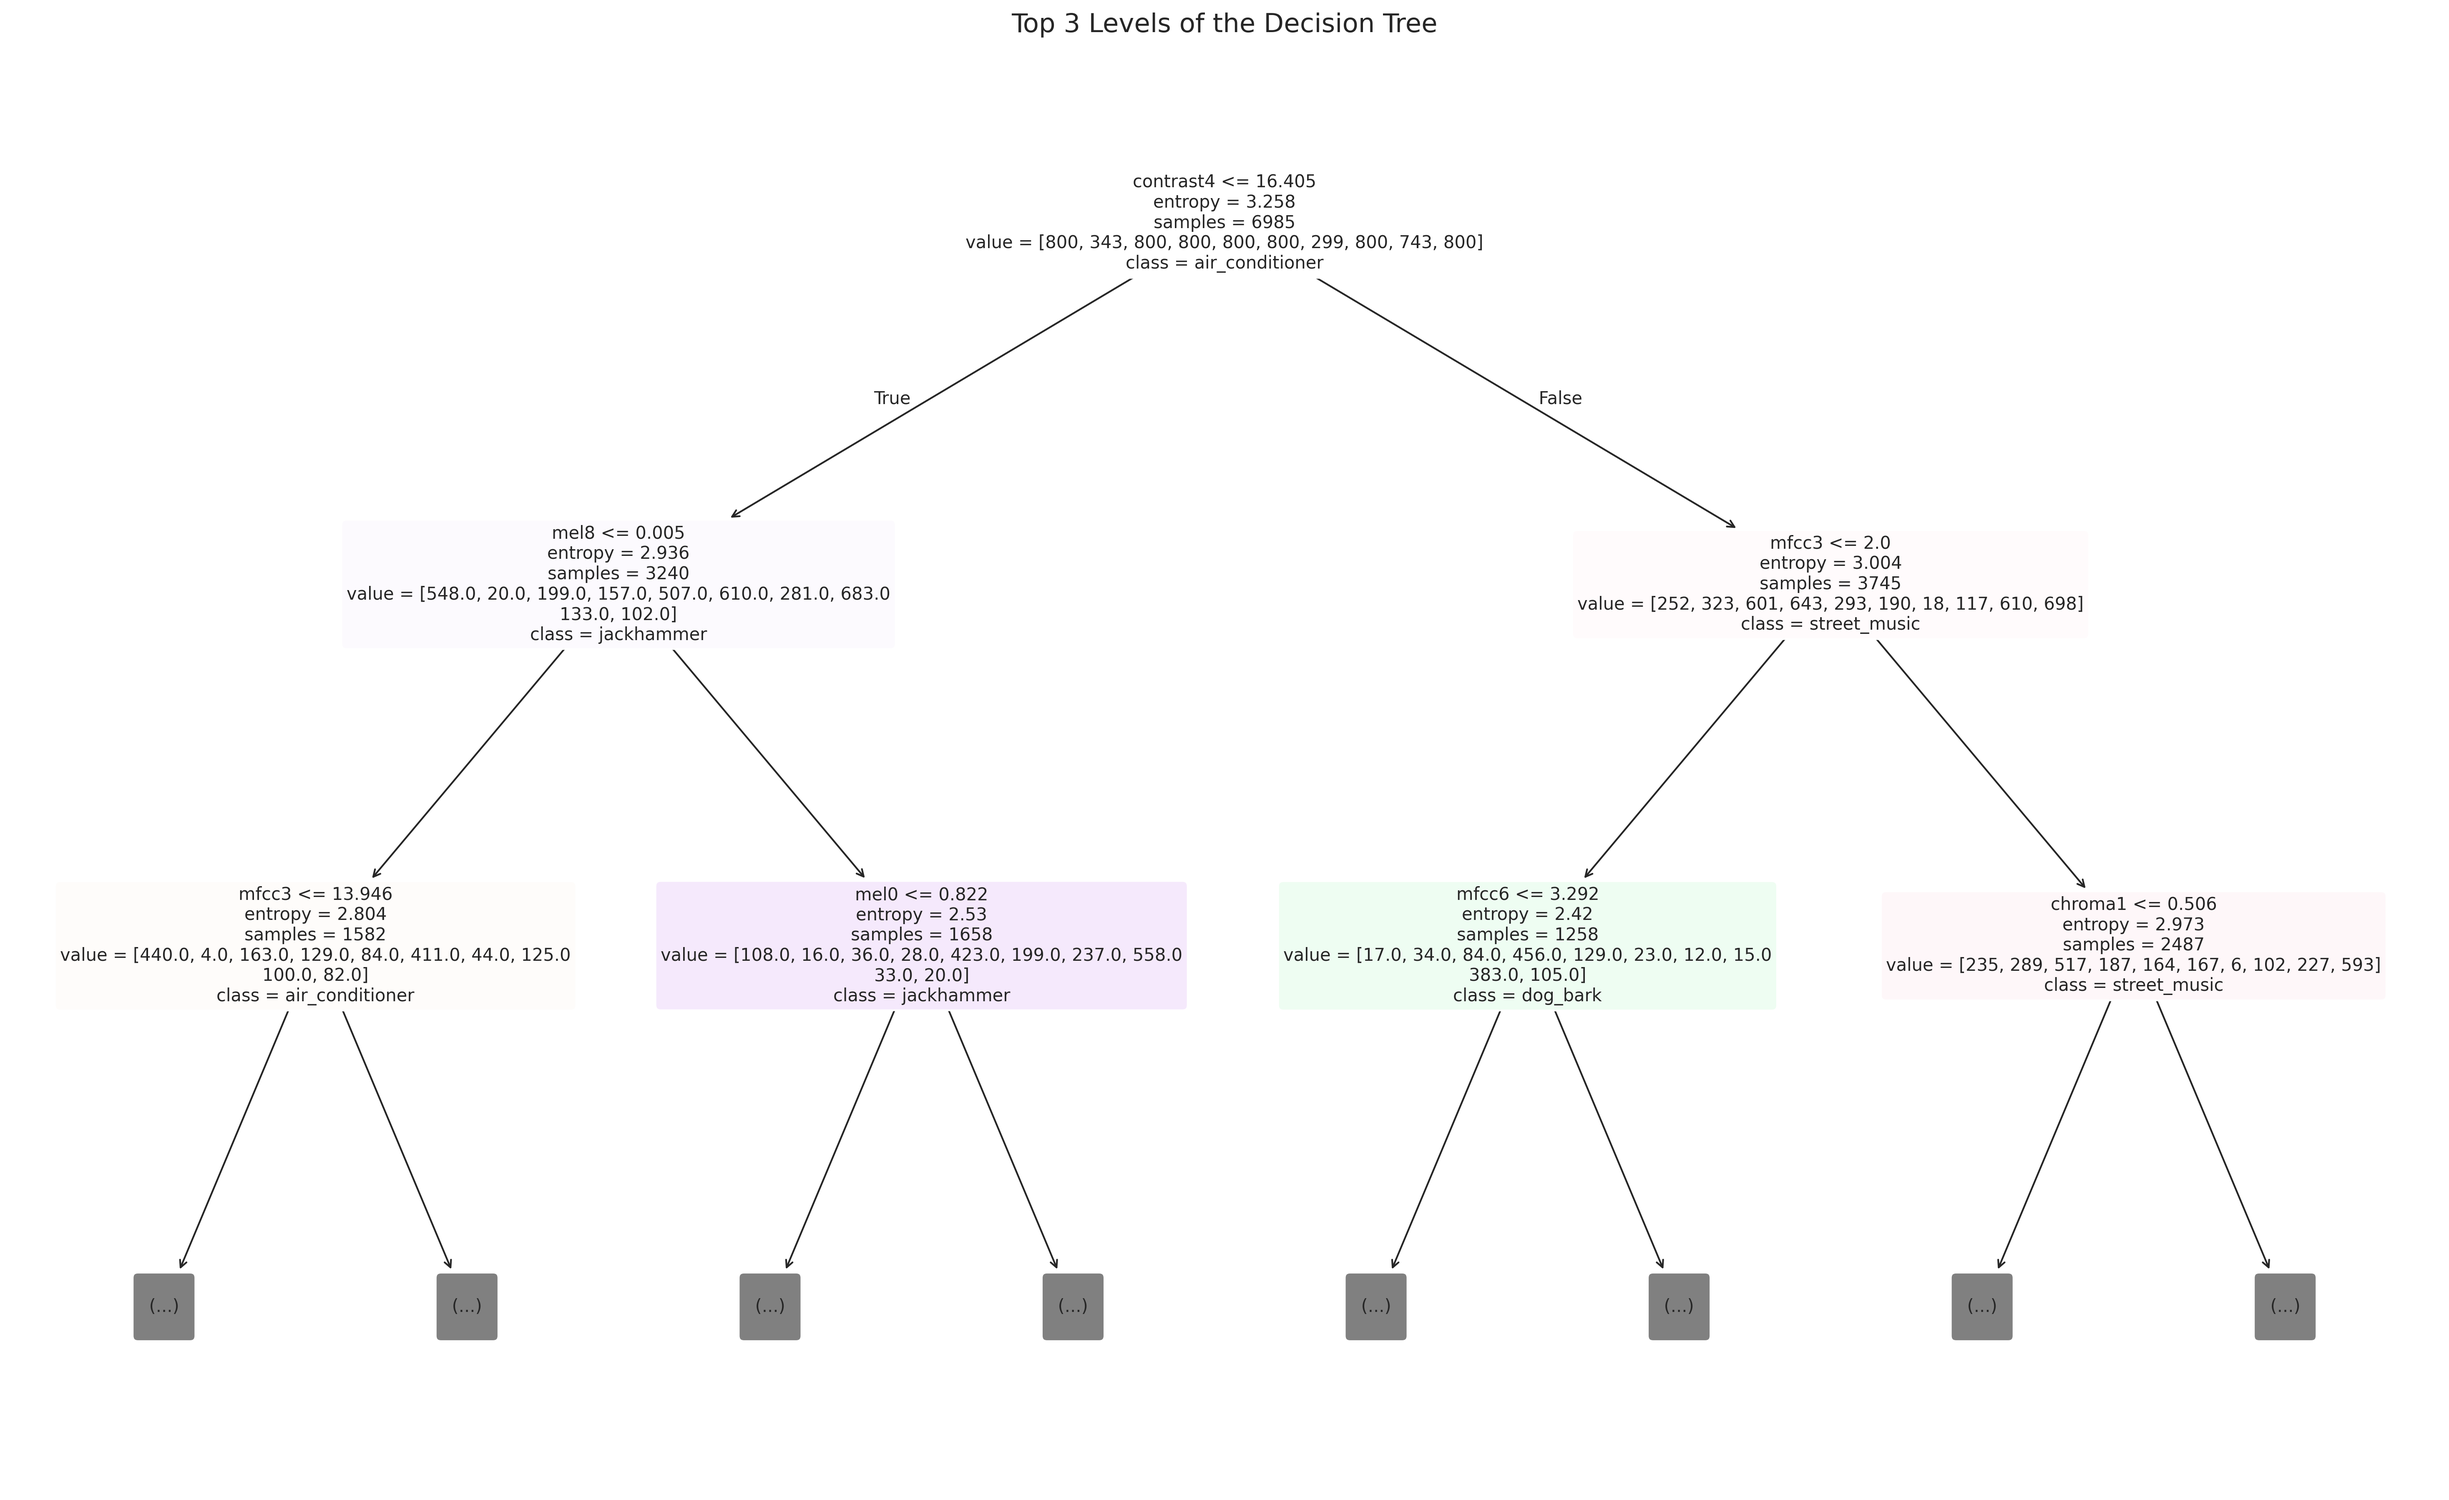
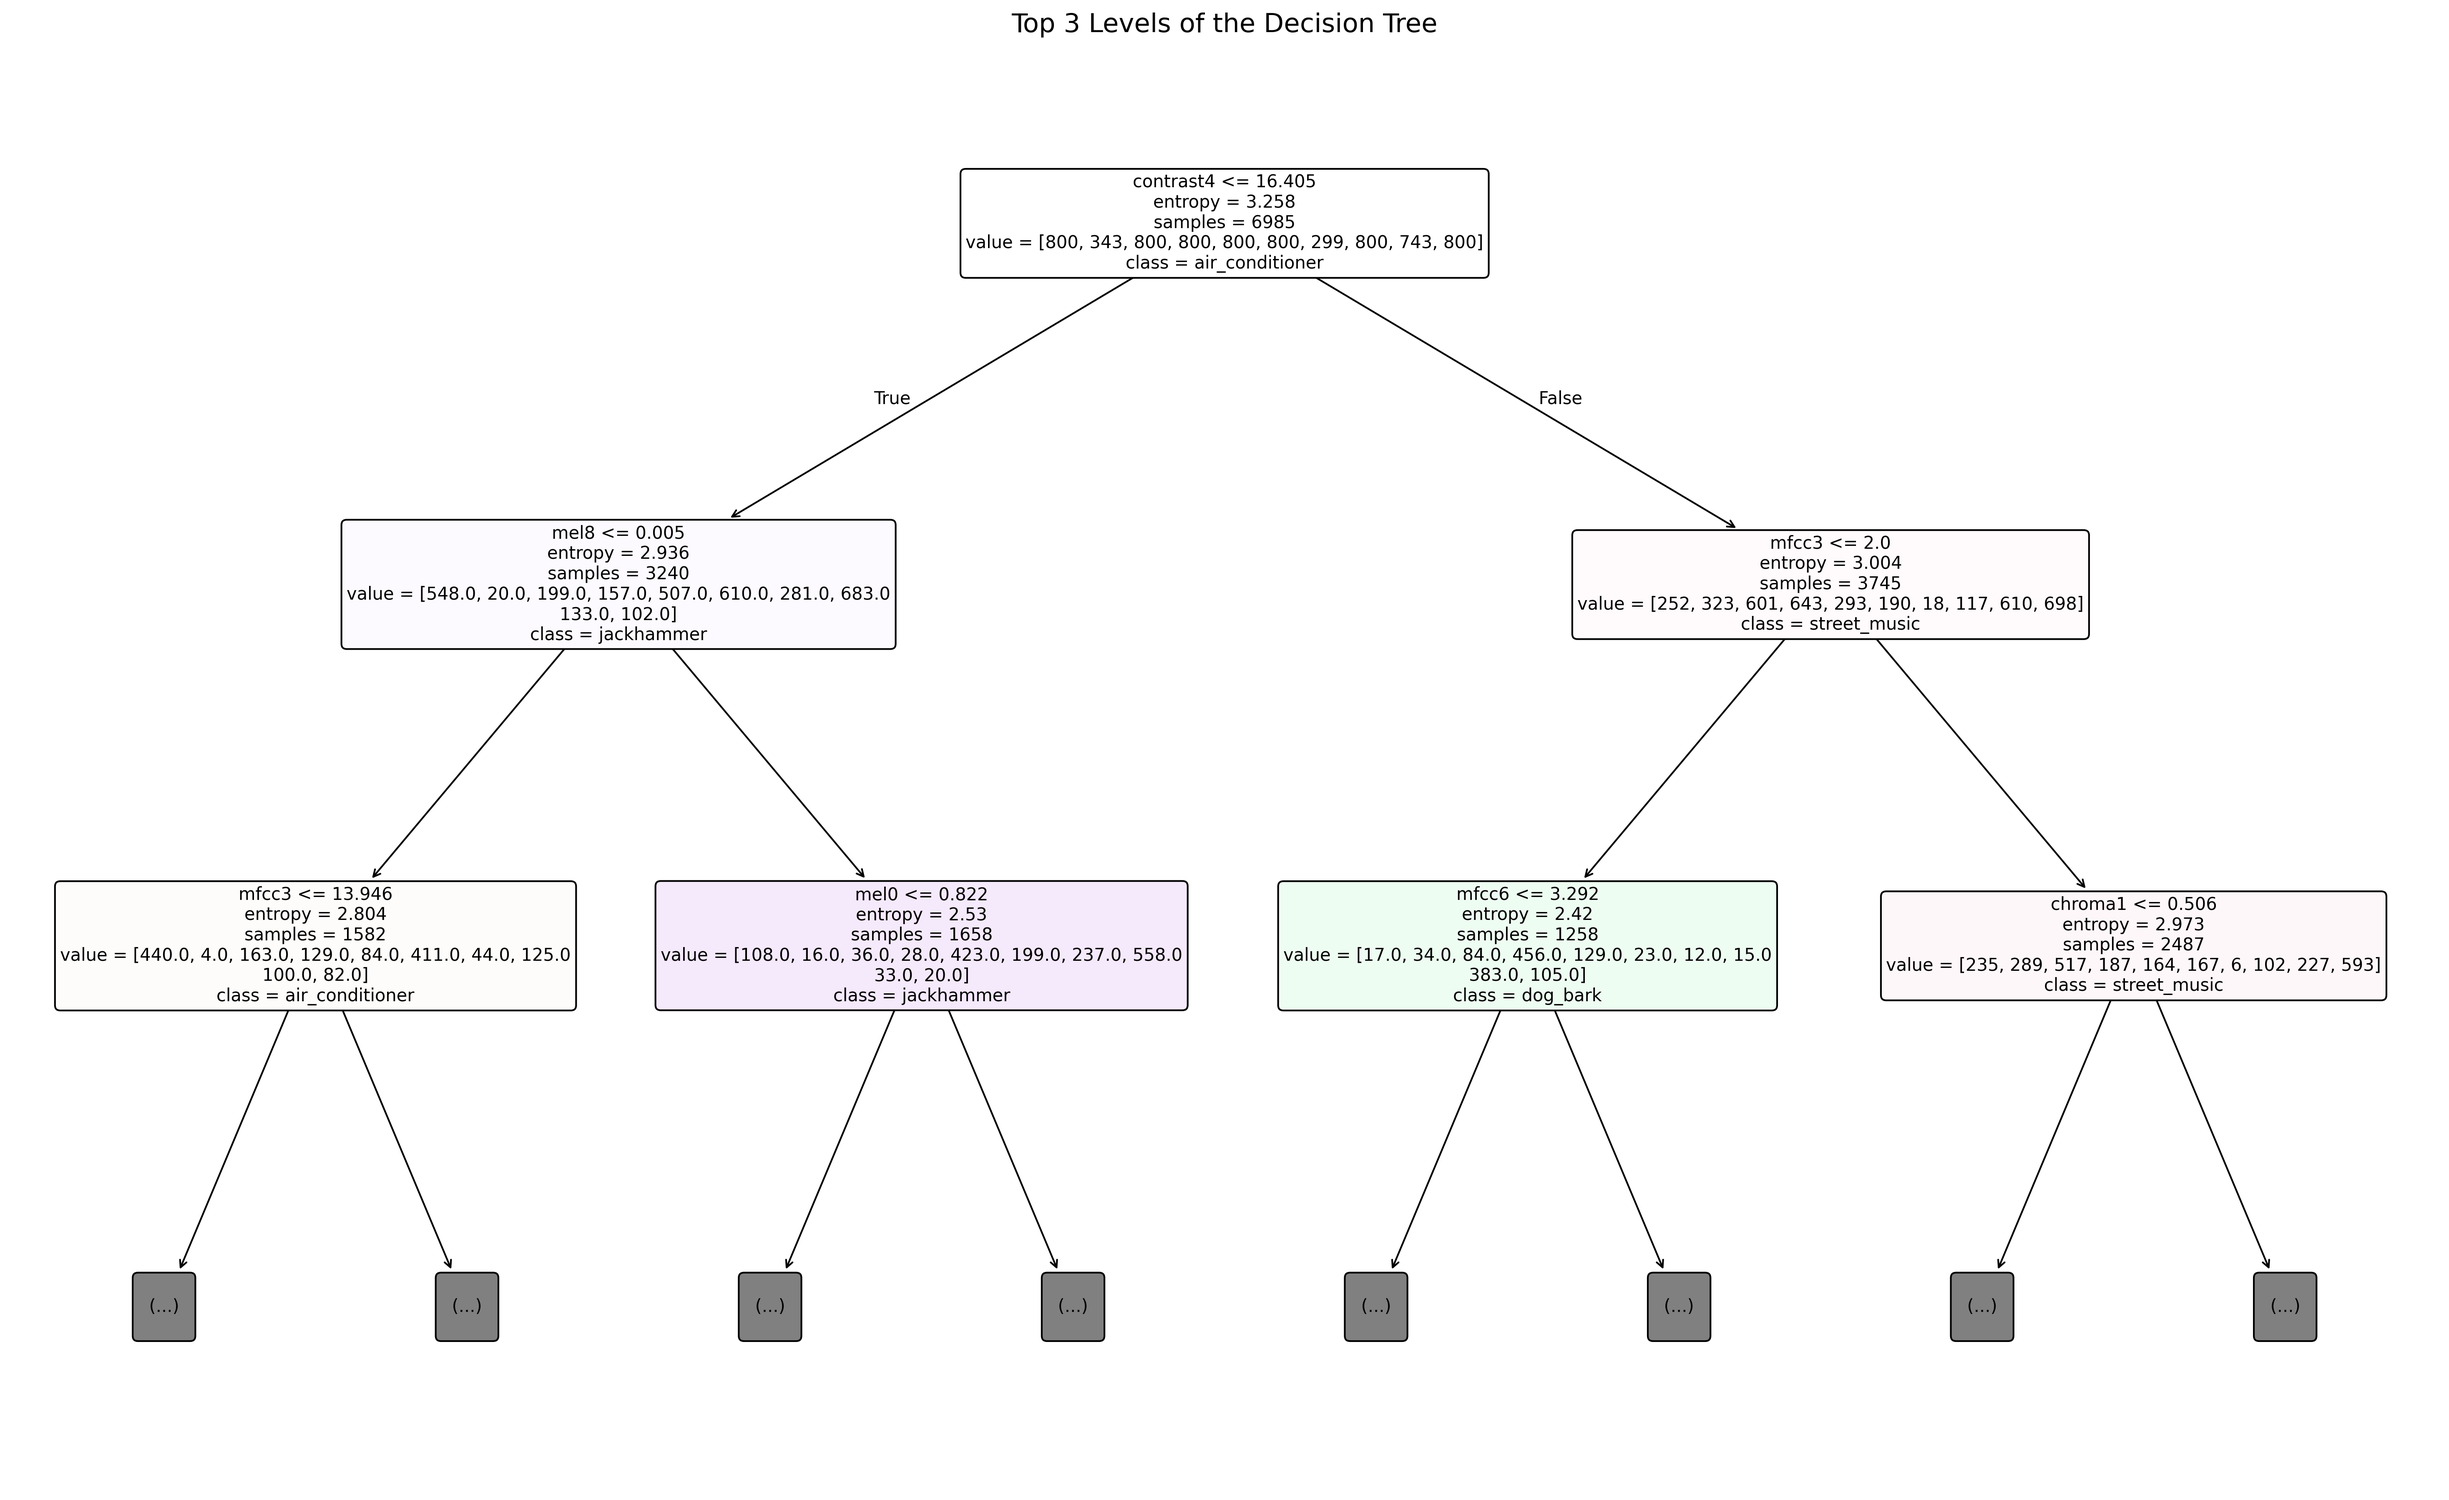
fix task6

diff --git a/task6.py b/task6.py
@@ -63,7 +63,7 @@ def task6():
 
     # 10. Draw the plot to visualise the top three levels of the tree
     plt.figure(figsize=(25, 15))
-    plot_tree(
+    annotations = plot_tree(
         dt_classifier,
         max_depth=2,  # Visualise top 3 levels (root + 2 more)
         feature_names=feature_names,
@@ -72,6 +72,11 @@ def task6():
         rounded=True,
         fontsize=10
     )
+    # Add borders to the nodes
+    for ann in annotations:
+        if ann.get_bbox_patch():
+            ann.get_bbox_patch().set_edgecolor('black')
+            
     plt.title("Top 3 Levels of the Decision Tree", fontsize=15)
     
     # 11. Save the plot to a PNG file
